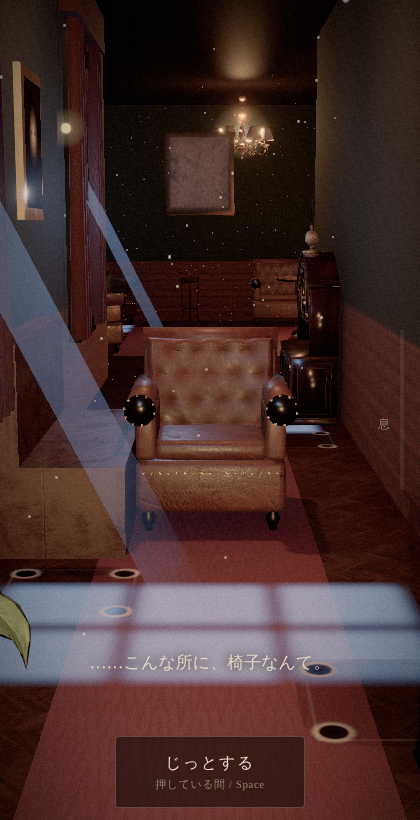
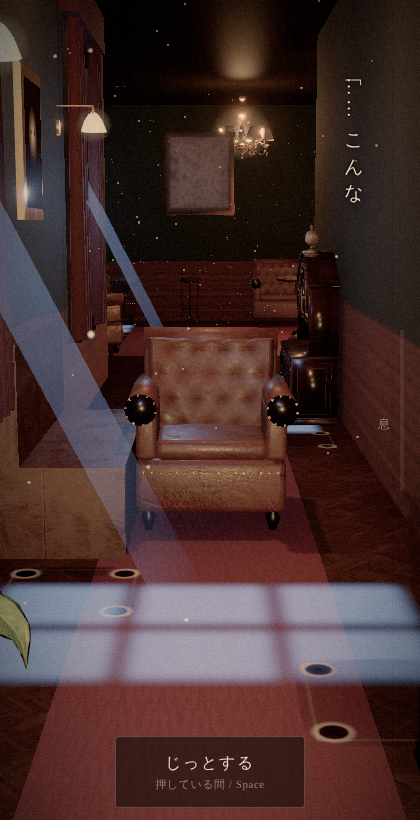
物が生きる（向きを変える椅子、目で追う肖像、揺れる服）。歩く夜の言葉を縦組みの活字に、場所の名と奥様への手紙の一節。大正の電灯、金屏風、扁額、褪せた肖像写真
Claude-Session: https://claude.ai/code/session_01CjhnmbmvXEUHaMUUdr47DY

diff --git a/src/state.js b/src/state.js
@@ -5,7 +5,14 @@ export const sub=$("sub"), susBar=$("sus").firstElementChild, lungBar=$("lung").
 export let S;
 export function reset(){ S={night:0,snap:null,state:"title",t:0,q:0,queue:[],sitter:null,ts:0,blobs:[],targets:[],w:0,heat:0,lung:0,hold:false,gaspCd:0,drift:0,tilt:0,sus:0,creakCd:0,listen:null,lineIdx:0,spots:[],frags:[],seen:[],beat:0,pulse:0,dark:1,wait:0,steps:0,caught:false,done:false,fidgetT:0,log:{},whyT:0,listens:0}; }
 reset();
-export function say(t,dim){ sub.textContent=t; sub.classList.toggle("dim",!!dim); }
+// 歩く夜は、乱歩の本の頁のように縦に組み、一字ずつ書きつけてゆく。女中の声は「」で括り、それ以外は私の独白として地の文に
+let typeT=null;
+export function say(t,dim){ sub.classList.toggle("dim",!!dim); if(typeT){ clearInterval(typeT); typeT=null; }
+  if(!document.body.classList.contains("walking")||!t){ sub.textContent=t; sub.className=sub.className.replace(/ ?(voice|mono)/g,""); return; }
+  const mono=!/^(……|あら|この屋敷|「)/.test(t), body=mono?t.replace(/^（|）$/g,""):"「"+t.replace(/^「|」$/g,"")+"」";
+  sub.classList.toggle("mono",mono); sub.classList.toggle("voice",!mono);
+  const html=body.replace(/《(.+?)》/g,"<em>$1</em>"), plain=body.replace(/[《》]/g,""); let n=0; sub.textContent="";
+  typeT=setInterval(()=>{ n+=2; if(n>=plain.length){ sub.innerHTML=html; clearInterval(typeT); typeT=null; } else sub.textContent=plain.slice(0,n); },1000/12); }
 export function spot(x,y){ S.spots.push({x,y,l:1}); if(S.spots.length>6) S.spots.shift(); }
 export const susEl=$("sus"), balI=$("bal").firstElementChild, bb=$("bb");
 export function addSus(v,reason){ v=Math.round(v*[0.6,0.8,1][S.night]); S.sus=Math.min(100,S.sus+v); if(reason){ S.log[reason]=(S.log[reason]||0)+1; susEl.classList.add("flash"); setTimeout(()=>susEl.classList.remove("flash"),600); } }

diff --git a/src/style.css b/src/style.css
@@ -58,3 +58,14 @@ body.walking #bl,body.walking #br{visibility:hidden}
 #stick{position:fixed;width:112px;height:112px;margin:-56px 0 0 -56px;border:1px solid rgba(227,215,195,.28);border-radius:50%;pointer-events:none;z-index:3}
 #stick i{position:absolute;left:36px;top:36px;width:40px;height:40px;border-radius:50%;background:rgba(227,215,195,.18);border:1px solid rgba(227,215,195,.4)}
 #stick.rush{border-color:var(--lamp)} #stick.rush i{background:rgba(217,145,59,.35)}
+
+/* 歩く夜：縦組みの文字。右の端から一行ずつ */
+body.walking #sub{writing-mode:vertical-rl;left:auto;right:calc(max(16px,env(safe-area-inset-right,0px)) + 30px);top:9vh;bottom:auto;height:62vh;max-width:46vw;padding:0;text-align:start;font-size:clamp(16px,2.3vh,20px);line-height:2.1;letter-spacing:.16em;min-height:0;text-shadow:0 0 10px #000,0 0 3px #000,0 0 22px rgba(0,0,0,.8)}
+body.walking #sub.voice{color:#e9d4b8}
+body.walking #sub.mono{color:#f2ece0}
+body.walking #sub em{font-style:normal;text-emphasis:sesame;-webkit-text-emphasis:sesame}
+#place{position:fixed;left:max(20px,env(safe-area-inset-left,0px));top:8vh;writing-mode:vertical-rl;pointer-events:none;opacity:0;transition:opacity 1.1s;color:#efe6d4;text-shadow:0 0 14px #000,0 0 4px #000;display:flex;gap:.6em;align-items:flex-start}
+#place b{font-size:clamp(26px,4.2vh,36px);font-weight:700;letter-spacing:.32em}
+#place small{font-size:13px;letter-spacing:.4em;color:#b9a888;margin-top:.4em}
+#place.on{opacity:1}
+body:not(.walking) #place{display:none}

diff --git a/index.html b/index.html
@@ -15,6 +15,7 @@
 <canvas id="seam" hidden></canvas>
 <div id="wfade"></div>
 <div id="stick" hidden><i></i></div>
+<div id="place"><b></b><small>第三夜</small></div>
 <div class="hud" id="sus"><i></i></div>
 <span id="suslabel">気配</span>
 <div id="lung"><i></i></div><span id="lunglabel">息</span>
